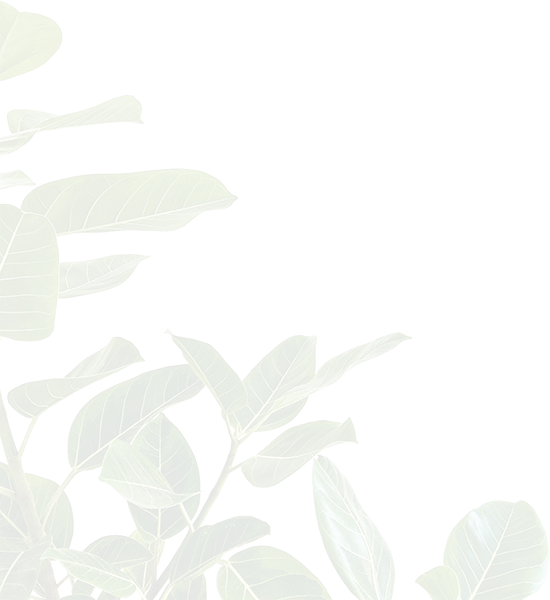
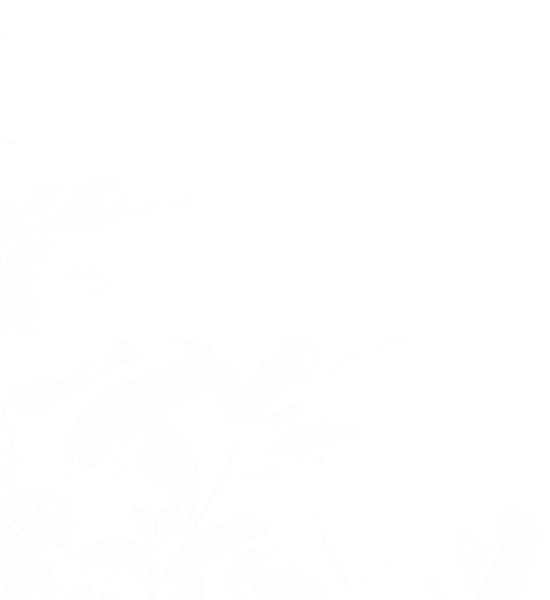
updating background image

diff --git a/css/style.css b/css/style.css
@@ -265,8 +265,8 @@
 
 /*** Products ***/
 .product {
-    background: linear-gradient(rgba(136, 180, 78, .1), rgba(136, 180, 78, .1)), url(../img/product-bg.png) left bottom no-repeat;
-    background-size: auto;
+    background: linear-gradient(rgba(255, 255, 255, 0.6), rgba(255, 255, 255, 0.8)), url(../img/product-bg4.jpg) left center no-repeat;
+    background-size: cover;
 }
 
 .product-item img {
@@ -407,7 +407,8 @@
 
 
 #dinner{
-    background: linear-gradient(rgba(136, 180, 78, .1), rgba(136, 180, 78, .1)), url(../img/product-bg.png) left bottom no-repeat;
+    background: linear-gradient(rgba(255, 255, 255, 0.6), rgba(255, 255, 255, 0.8)), url(../img/product-bg4.jpg) left center no-repeat;
+    background-size: cover;
 }
 
 /*** Store ***/
